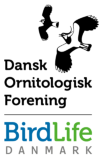
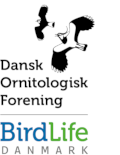
Changed font style and font type for all text fields.
Removed the bottom padding from the logos

Moved the address part outside of the table

Removed the left- and bottom-space of the DOF logo

diff --git a/visitkort-2018/src/app/preview/preview.component.html b/visitkort-2018/src/app/preview/preview.component.html
@@ -1,6 +1,5 @@
 <!-- Result -->
 <div style="margin-top:1.0rem;font-size: 10pt;font-family: Segoe UI, Verdana, sans-serif;" id="signature">
-    <style>a:visited { color: #818079; } a {color: #818079; }</style>
     <table>
         <colgroup>
             <col width=96 style="width: 100px;">
@@ -9,33 +8,31 @@
         <tr>
             <!-- First cell is a 1x3 cell-->
             <td rowspan="3" width=96>
-                <img src="https://integration.dof.dk/visitkort-2018/assets/small/dof.png" style="padding-right: 20px;" />
+                <img src="https://integration.dof.dk/visitkort-2018/assets/small/dof.png"/>
             </td>
             <td>
-                <span style="font-weight: bold; display: inline-block;" id="sender_name">{{card.sender_name | uppercase}}</span>
+                <span style="font-weight: bold; display: inline-block; font-size: 10pt; font-family: Segoe UI, Verdana, sans-serif;">{{card.sender_name | uppercase}}</span>
                 <br />
-                <span style="display: inline-block; color:#818079"> {{card.sender_position_native}}</span>
+                <span style="display: inline-block; color:#818079; font-size: 10pt; font-family: Segoe UI, Verdana, sans-serif;"> {{card.sender_position_native}}</span>
                 <br />
-                <span style="display: inline-block; color: #818079"> {{card.sender_position_english}}</span>
+                <span style="display: inline-block; color: #818079; font-size: 10pt; font-family: Segoe UI, Verdana, sans-serif;"> {{card.sender_position_english}}</span>
             </td>
         </tr>
         <tr>
             <td>
-                <span>T: +45 3328 3800</span>
+                <span style="font-size: 10pt; font-family: Segoe UI, Verdana, sans-serif;">T: +45 3328 3800</span>
                 <br />
-
                 <span style="display: inline-block;">
-                    <span *ngIf="card.sender_telephone_direct">D: {{card.sender_telephone_direct}}</span>
+                    <span *ngIf="card.sender_telephone_direct" style="font-size: 10pt; font-family: Segoe UI, Verdana, sans-serif;">D: {{card.sender_telephone_direct}}</span>
                 </span>
                 <br />
-
                 <span style="display: inline-block;">
-                    <span *ngIf="card.sender_skypeid">S: {{card.sender_skypeid}}</span>
+                    <span *ngIf="card.sender_skypeid" style="font-size: 10pt; font-family: Segoe UI, Verdana, sans-serif;">S: {{card.sender_skypeid}}</span>
                 </span>
             </td>
         </tr>
         <tr>
-            <td style="vertical-align: bottom; padding-bottom: 10px;">
+            <td style="vertical-align: bottom;">
                 <div>
                     <a href="https://www.facebook.com/birdlifedk"><img src="https://integration.dof.dk/visitkort-2018/assets/small/facebook.png"/></a>
                     &nbsp;
@@ -44,19 +41,18 @@
                     <a href="https://www.youtube.com/user/DOFBirdlife"><img src="https://integration.dof.dk/visitkort-2018/assets/small/youtube.png"/></a>
                 </div>
             </td>
-        </tr>
-        <tr>
-            <td colspan="4">
-                <div style="color:#818079">
-                    <span>Vesterbrogade 138-140</span>
-                    <span style="margin-left: 0.5em; margin-right: 0.5em;">|</span>
-                    <span>1620 København V</span>
-                    <span style="margin-left: 0.5em; margin-right: 0.5em;">|</span>
-                    <span><a href="mailto:dof@dof.dk">dof@dof.dk</a></span>
-                    <span style="margin-left: 0.5em; margin-right: 0.5em;">|</span>
-                    <span><a target="_blank" href="https://www.dof.dk">www.dof.dk</a></span>
-                </div>
-            </td>
-        </tr>
+        </tr>        
     </table>
+            
+    <div style="margin-top: 5px">
+        <style>a:visited { color: #818079; } a {color: #818079; }</style>
+        <span style="color:#818079; font-size: 10pt; font-family: Segoe UI, Verdana, sans-serif;">Vesterbrogade 138-140 | 1620 København V | </span>
+        <a href="mailto:dof@dof.dk" style="font-size: 10pt; font-family: Segoe UI, Verdana, sans-serif;">
+            <font color="#818079">dof@dof.dk</font>
+        </a>
+        <span style="color:#818079; font-size: 10pt; font-family: Segoe UI, Verdana, sans-serif;"> | </span>
+        <a target="_blank" href="https://www.dof.dk" style="font-size: 10pt; font-family: Segoe UI, Verdana, sans-serif;">
+            <font color="#818079">www.dof.dk</font>
+        </a>
+    </div>
 </div>
